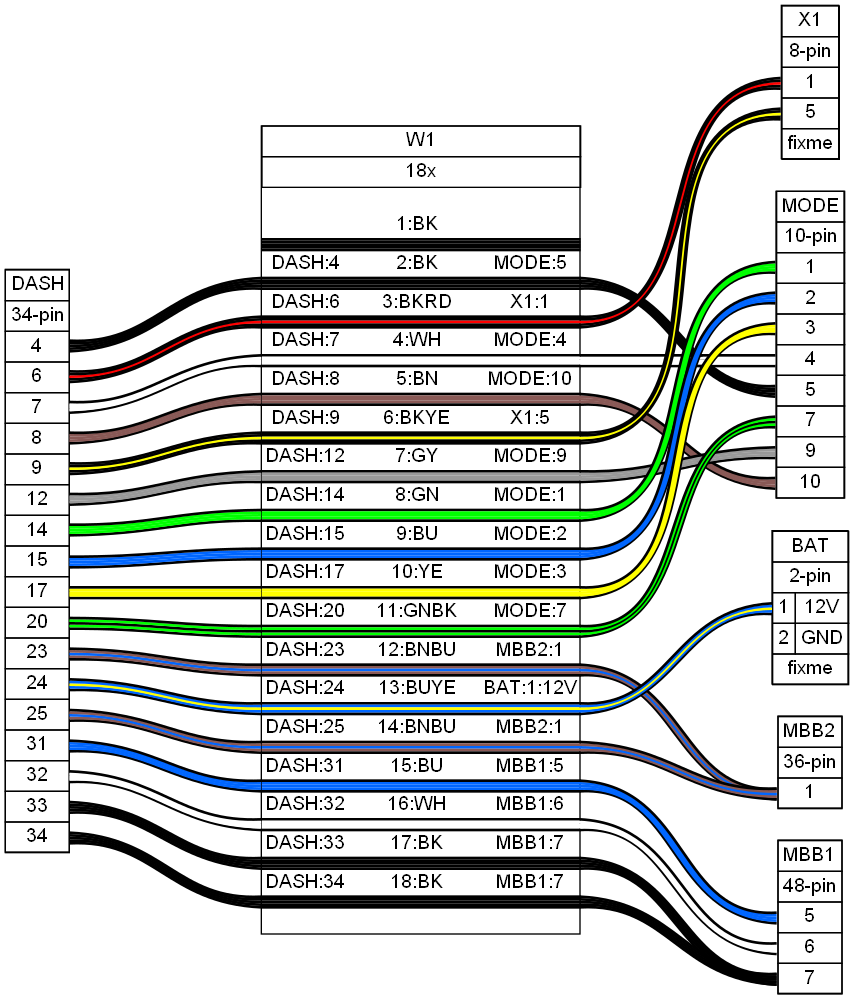
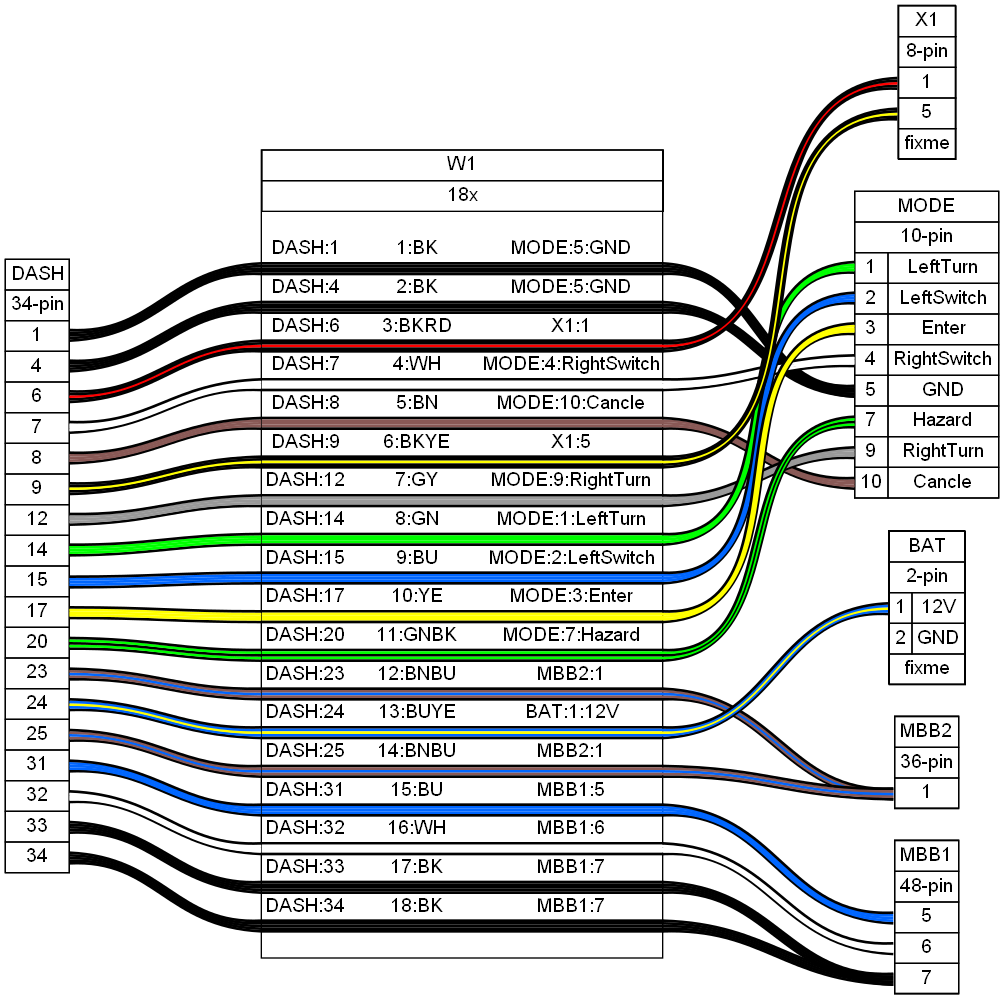
Add mode switch pin names

diff --git a/output.md b/output.md
@@ -88,12 +88,14 @@ connectors:
     hide_disconnected_pins: true
   MBB1:
     pincount: 48
+  #  pinlabels: [CANH,CANL,GND]
     hide_disconnected_pins: true
   MBB2:
     pincount: 36
     hide_disconnected_pins: true
   MODE:
-    pincount: 10
+  #  pincount: 10
+    pinlabels: [LeftTurn,LeftSwitch,Enter,RightSwitch,GND,' ',Hazard,GND,RightTurn,Cancle]
     hide_disconnected_pins: true
   X1:
     pincount: 8
@@ -109,9 +111,9 @@ cables:
 
 connections:
   -
-    - DASH: [4,7,8,12,14,15,17,20]
-    - W1: [2,4,5,7-11] 
-    - MODE: [5,4,10,9,1,2,3,7]
+    - DASH: [1,4,7,8,12,14,15,17,20]
+    - W1: [1,2,4,5,7-11] 
+    - MODE: [5,5,4,10,9,1,2,3,7]
   -
     - DASH: [31-34]
     - W1: [15-18]
